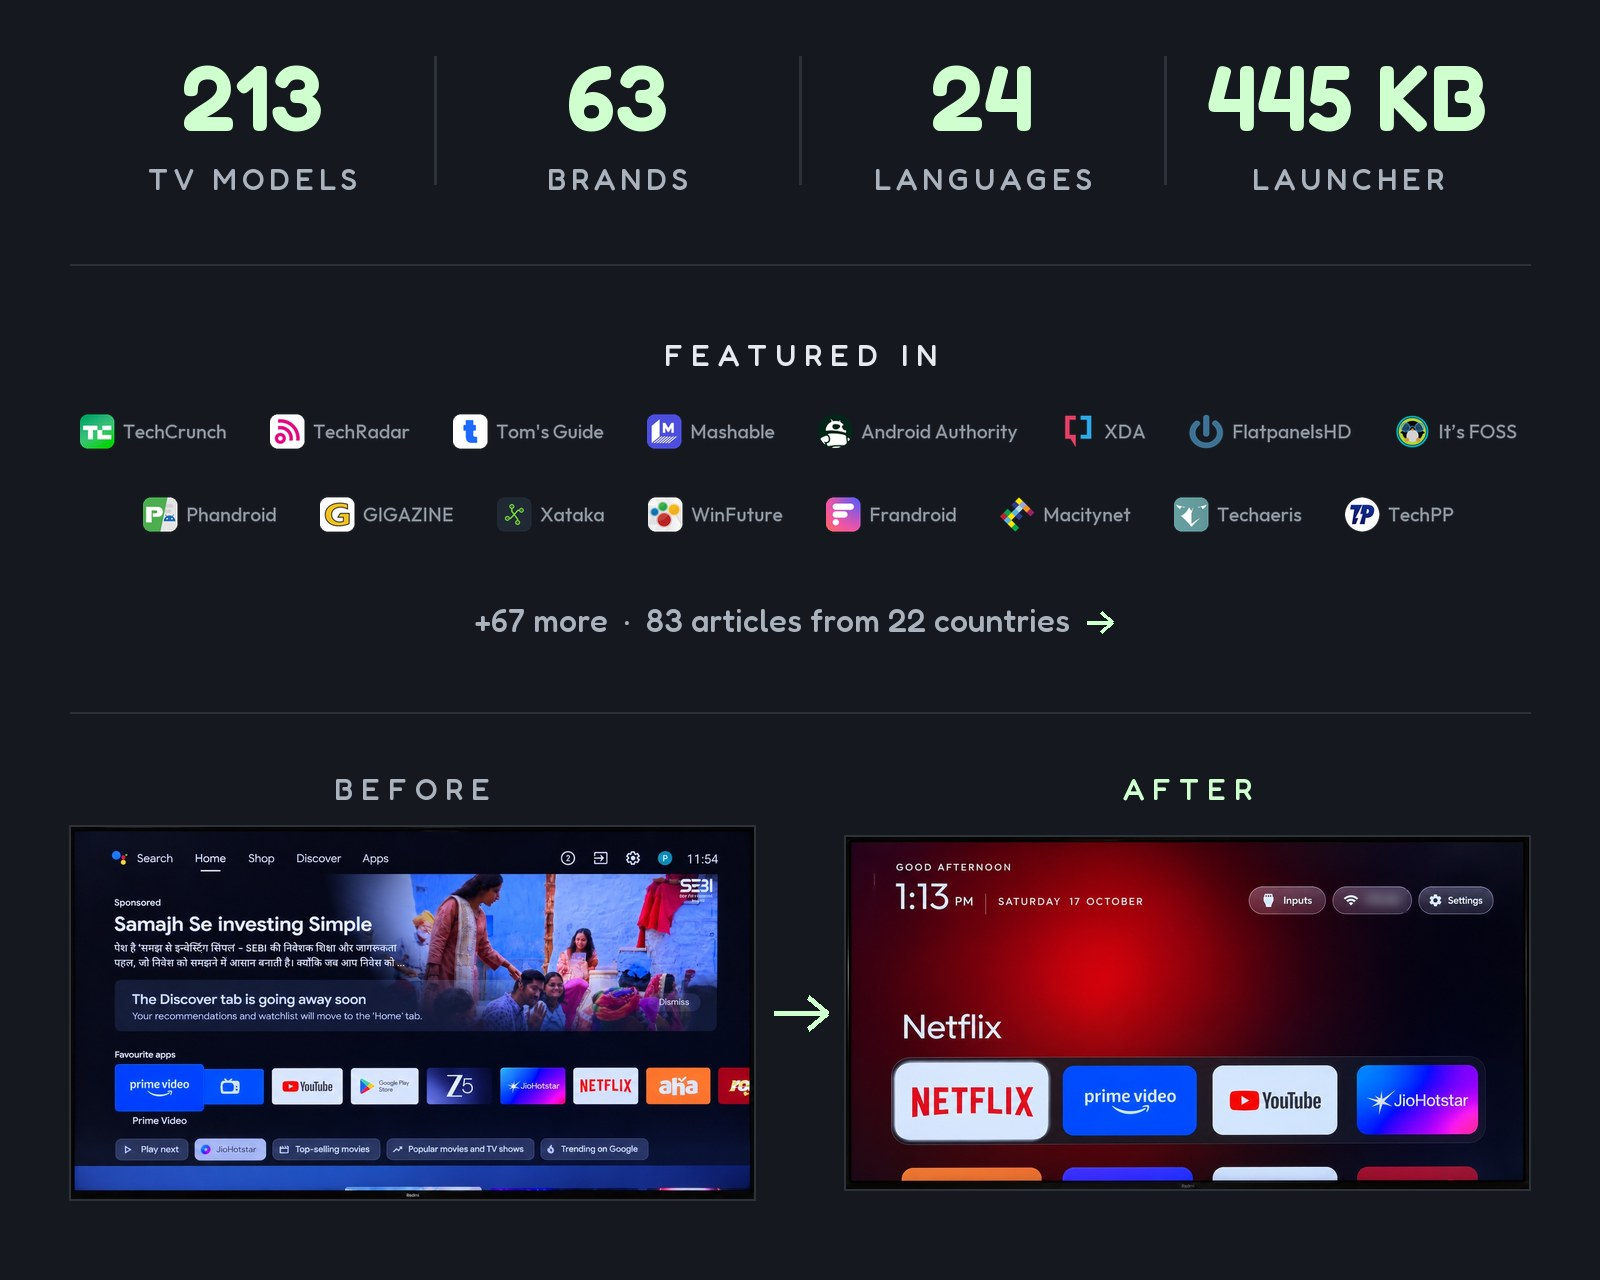
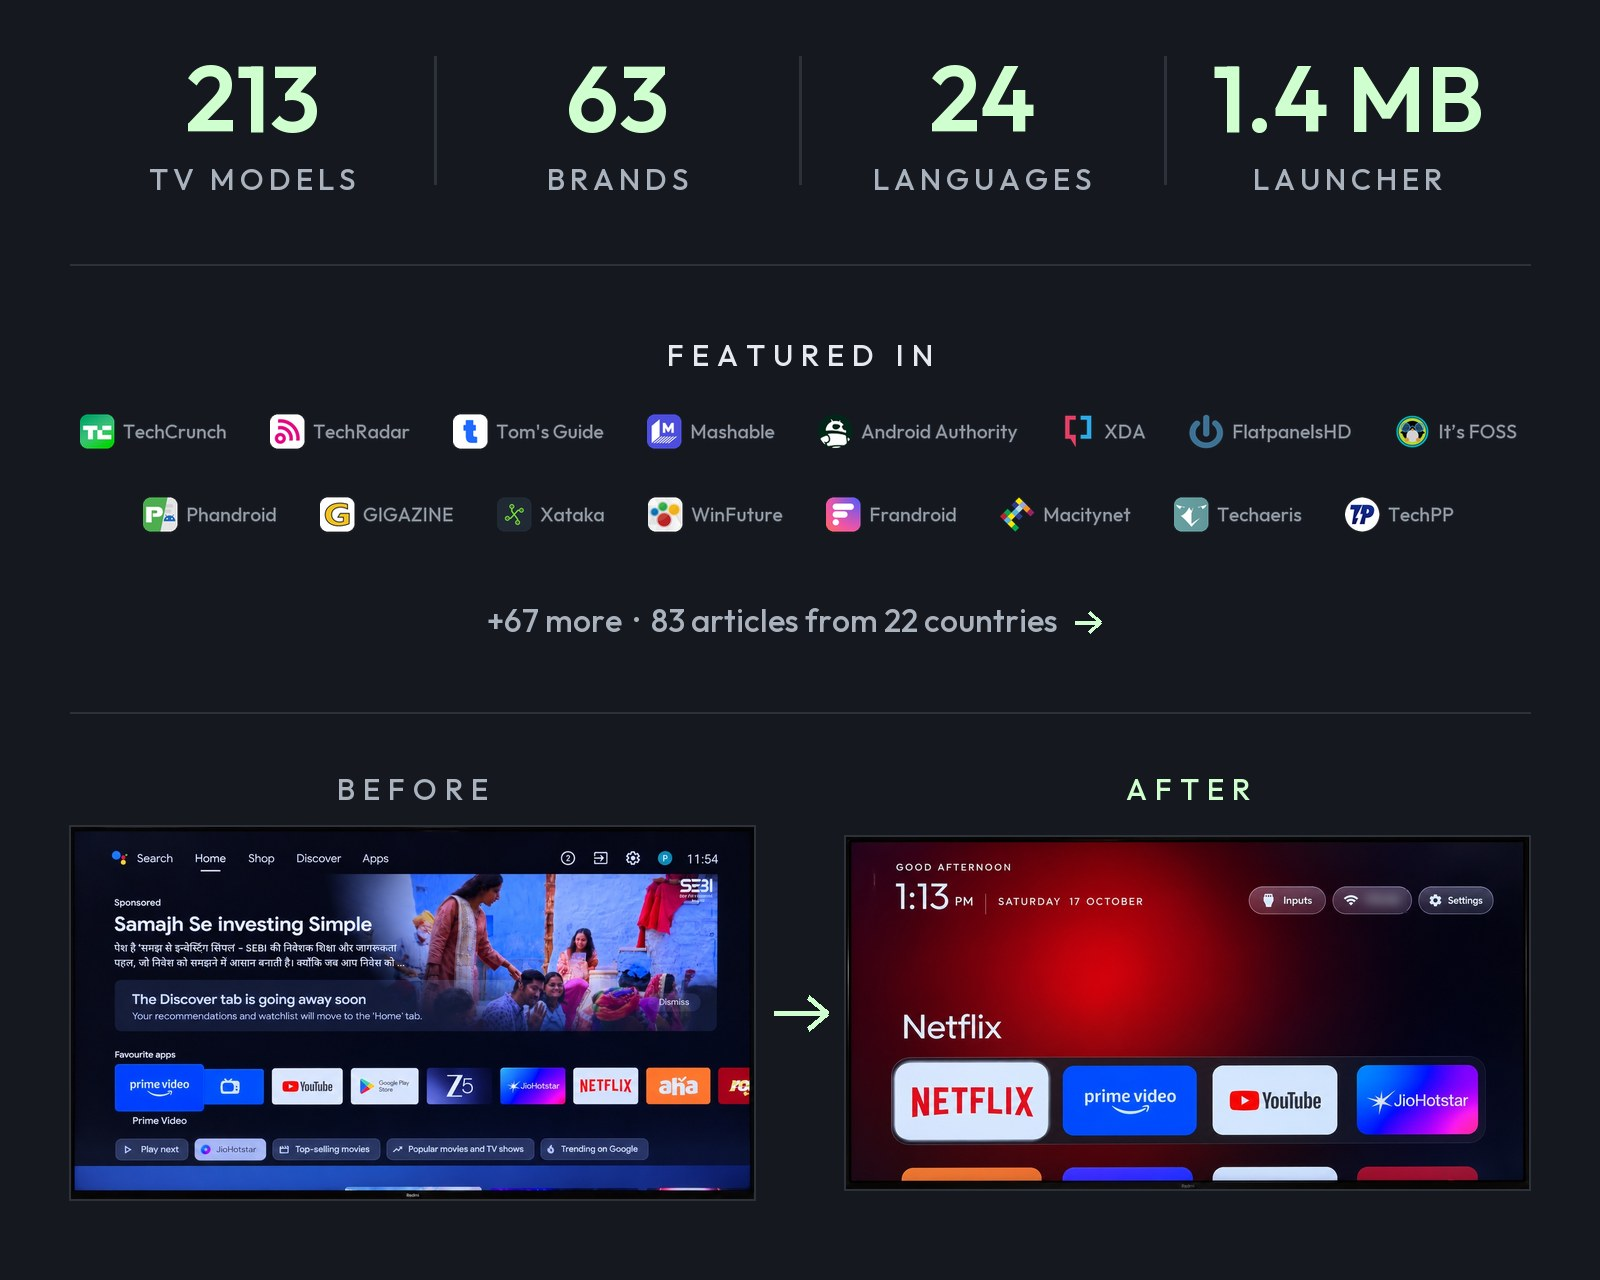
修复重启桌面图标不能保存问题，添加菜单加载动画弹窗。

diff --git a/tools/readme_stats.py b/tools/readme_stats.py
@@ -5,7 +5,7 @@ and rebuild the card with tools/readme_card.py. Fredoka is the variable TTF from
 import sys
 from PIL import Image, ImageDraw, ImageFont
 FONT, OUT = sys.argv[1], sys.argv[2]
-STATS = [("213", "TV MODELS"), ("63", "BRANDS"), ("24", "LANGUAGES"), ("445 KB", "LAUNCHER")]
+STATS = [("213", "TV MODELS"), ("63", "BRANDS"), ("24", "LANGUAGES"), ("1.4 MB", "LAUNCHER")]
 W, H = 1600, 240
 img = Image.new("RGB", (W, H), "#15181e"); d = ImageDraw.Draw(img)
 def f(size, wt):

diff --git a/README.md b/README.md
@@ -17,7 +17,7 @@
 </p>
 
 <p align="center">
-  <a href="docs/PRESS.md"><img src="docs/card.jpg" alt="213 TV models · 63 brands · 24 languages · 445 KB launcher. Featured in TechCrunch, TechRadar, Tom's Guide, Mashable, Android Authority, XDA, FlatpanelsHD, It's FOSS, Phandroid, GIGAZINE, Xataka, WinFuture, Frandroid, Macitynet, Techaeris, TechPP and 67 more: 83 articles from 22 countries. Before: stock Google TV home with a sponsored ad. After: the Clean Your TV launcher." width="800"></a>
+  <a href="docs/PRESS.md"><img src="docs/card.jpg" alt="213 TV models · 63 brands · 24 languages · 1.4 MB launcher. Featured in TechCrunch, TechRadar, Tom's Guide, Mashable, Android Authority, XDA, FlatpanelsHD, It's FOSS, Phandroid, GIGAZINE, Xataka, WinFuture, Frandroid, Macitynet, Techaeris, TechPP and 67 more: 83 articles from 22 countries. Before: stock Google TV home with a sponsored ad. After: the Clean Your TV launcher." width="800"></a>
 </p>
 
 **The viral tweet:** [x.com/gathint/status/2111379569030939102](https://x.com/gathint/status/2111379569030939102)
@@ -359,7 +359,7 @@ tools/theme.sh themes/aurora                                 # push a theme; --r
 | [`tools/privacy.py`](tools/privacy.py) | Audits the TV for voice, ACR and telemetry candidates and prints the evidence for each; `--write` turns the findings into a list `disable.sh` and `restore.sh` already understand. |
 | [`tools/theme.sh`](tools/theme.sh) | Push a folder from [`themes/`](themes/) to the launcher and restart Home. |
 | [`tools/race_calendar.py`](tools/race_calendar.py) | Writes this season's F1 calendar into a theme for race-weekend mode, from the free Jolpica API. |
-| [`launcher/build-and-install.sh`](launcher/build-and-install.sh) | Builds a shrunk release (about 445 KB), installs it, switches Home, and rolls back if Home does not land on it. |
+| [`launcher/build-and-install.sh`](launcher/build-and-install.sh) | Builds a shrunk release (about 1.4 MB), installs it, switches Home, and rolls back if Home does not land on it. |
 
 The scripts never leave the TV without a Home app: they only disable a stock launcher they recognise,
 and skip the Home app in a list until another launcher answers HOME. Details below.
@@ -429,7 +429,7 @@ apps), which is why the report names that loss per package instead of calling it
 
 ## The launcher
 
-A small native home screen for Android TV: **about 445 KB**, plain Java, built for TVs with 1 GB of RAM.
+A small native home screen for Android TV: **about 1.4 MB**, plain Java, built for TVs with 1 GB of RAM.
 No blur, no video, no network permission, no background services.
 
 The **TV** needs Android 8.0 (API 26) or newer: `minSdk` is a compile-time floor in

diff --git a/.github/maintainer/MAINTAINER.md b/.github/maintainer/MAINTAINER.md
@@ -1,7 +1,7 @@
 # How CleanYourTV PRs are reviewed
 
 CleanYourTV (Gathin23/cleanyourtv) is a prompt plus tools that debloat Android TV / Google TV / Fire TV over
-ADB and a tiny native launcher (`launcher/`, plain Java, ~445 KB, for 1 GB TVs). Contributors mostly add
+ADB and a tiny native launcher (`launcher/`, plain Java, ~1.4 MB, for 1 GB TVs). Contributors mostly add
 tested TV lists under `examples/<tv>/`, translations, docs, small launcher options, themes, add-ons and tools.
 
 ## The policy: a small core plus a well-indexed hub
